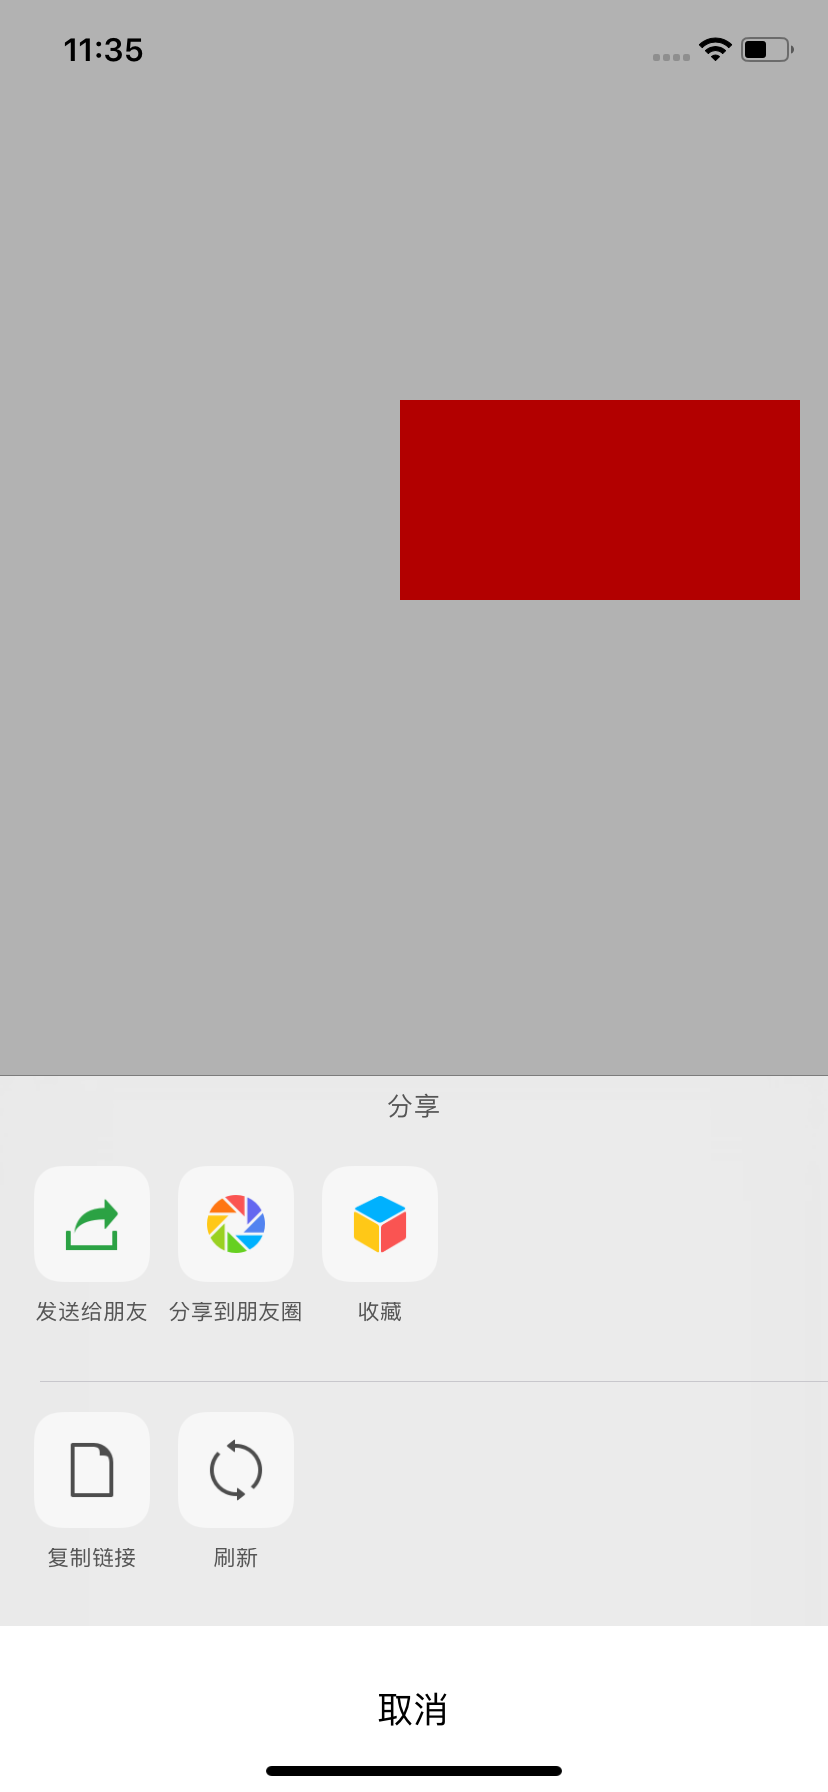
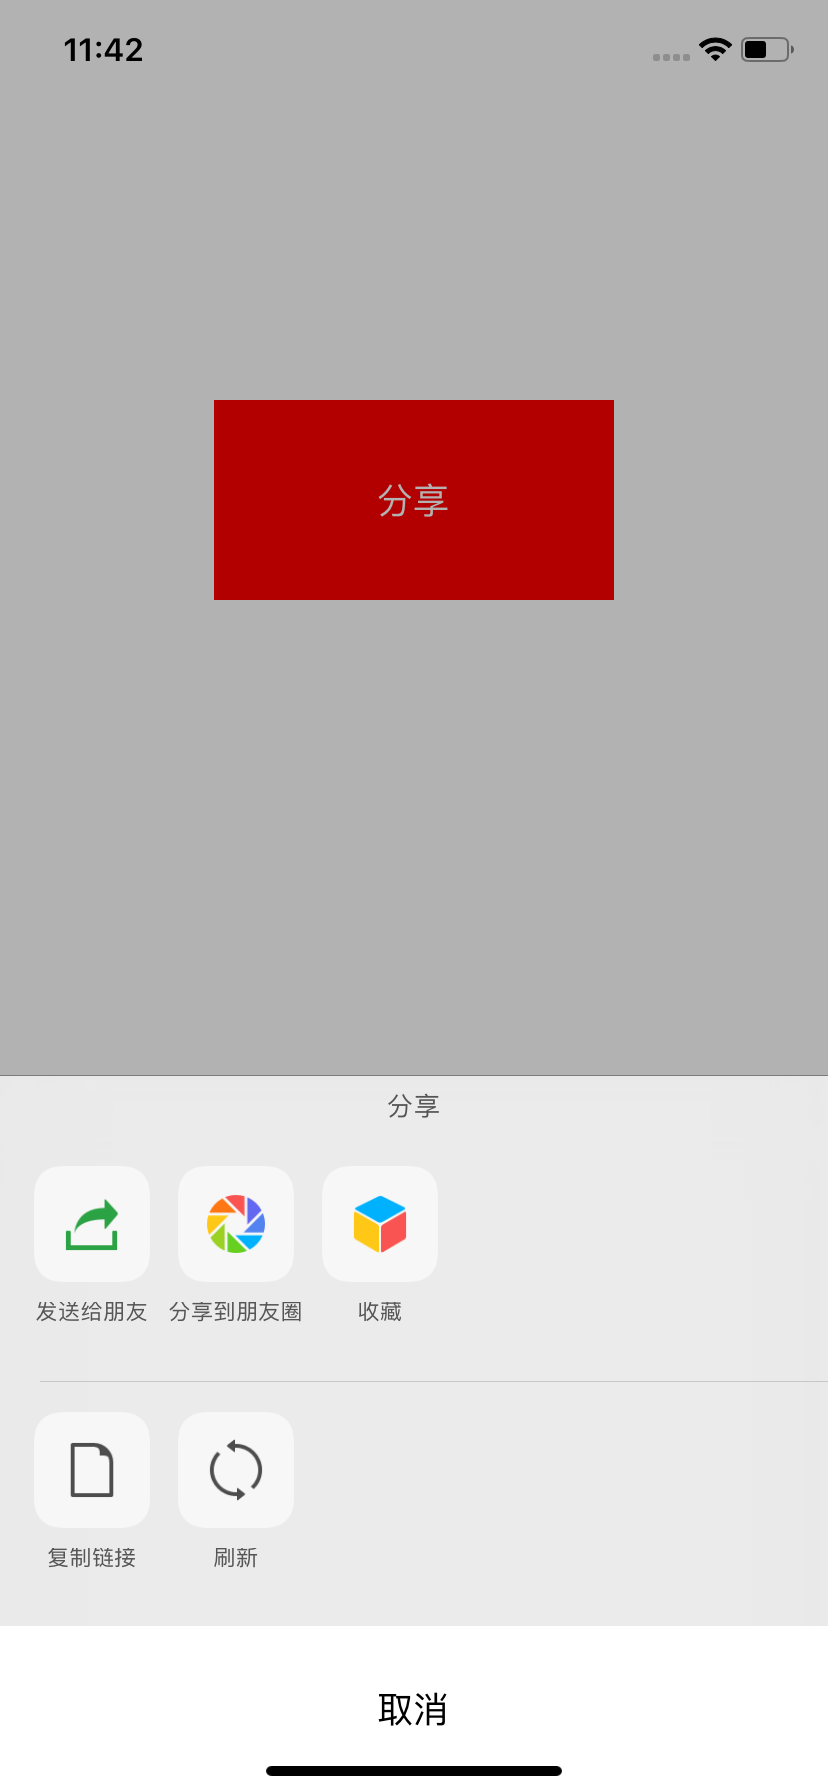
fix

Changed region(s): [[0.2415, 0.2188, 0.5435, 0.3438], [0.7246, 0.2188, 0.9662, 0.3438], [0.1208, 0.0, 0.1812, 0.0312]]

diff --git a/CDShareSheet/ViewController.swift b/CDShareSheet/ViewController.swift
@@ -15,8 +15,9 @@ class ViewController: UIViewController {
         // Do any additional setup after loading the view.
         
         let btn = UIButton.init(type: .custom)
-        btn.frame = CGRect(x: 200, y: 200, width: 200, height: 100)
+        btn.frame = CGRect(x: CD_SCREEN_WIDTH/2.0-100, y: 200, width: 200, height: 100)
         btn.backgroundColor = UIColor.red
+        btn.setTitle("分享", for: UIControl.State.normal)
         btn.addTarget(self, action: #selector(btnAction), for: .touchUpInside)
         view.addSubview(btn)
     }
